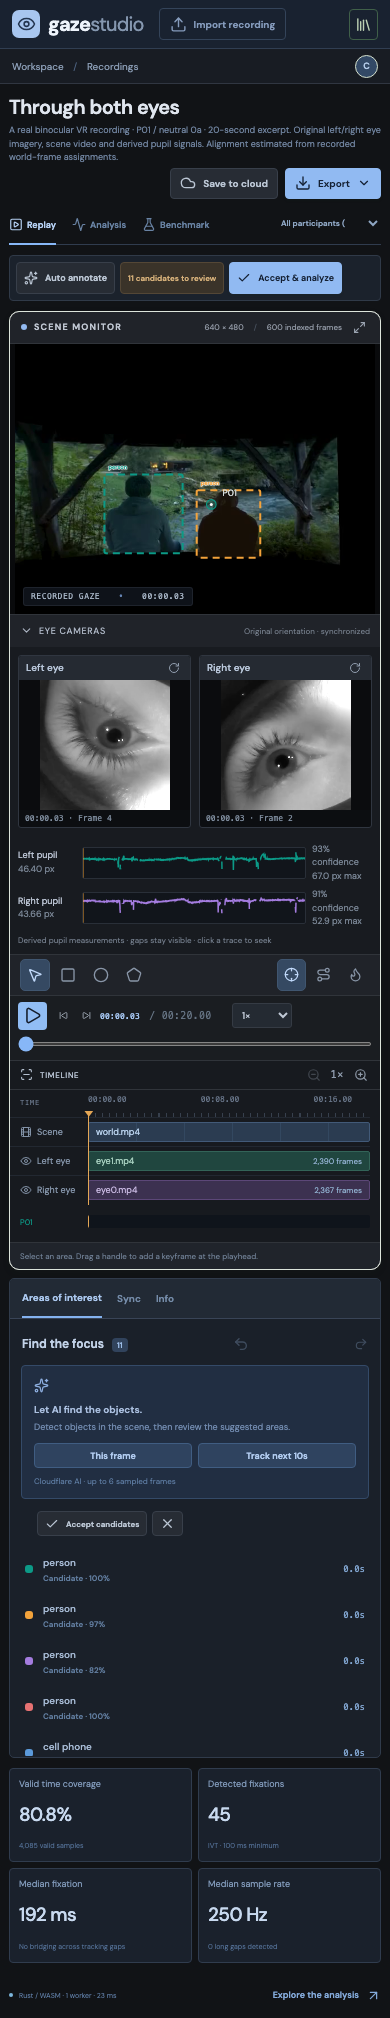
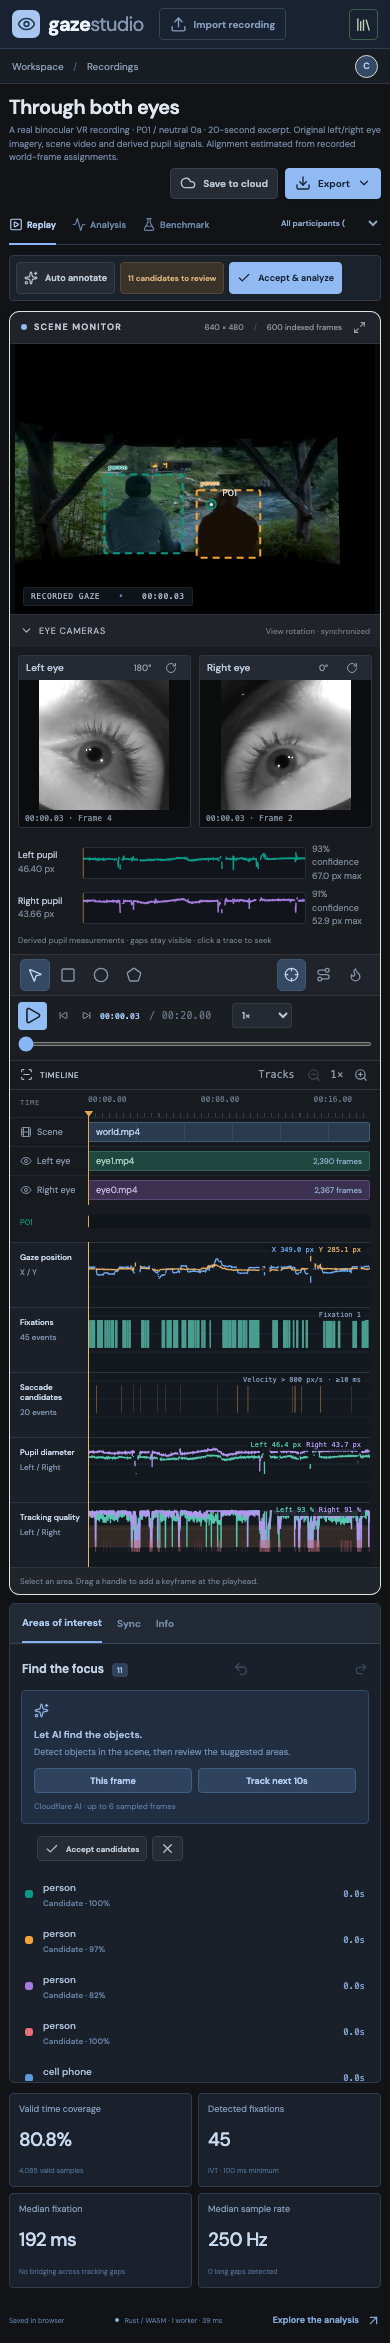
Publish signal track deployment evidence and corrected-eye screenshots

diff --git a/docs/EDITOR-VERIFICATION.md b/docs/EDITOR-VERIFICATION.md
@@ -35,3 +35,9 @@ See `docs/verification/` for preserved reports and `artifacts/verification/` for
 A subsequent CSS adjustment reduces ruler labels in narrow reusable players. [Production measurements](verification/v0.2-compact-timeline.json) checked non-overlap at 390px for 1×, 2×, 4× and 8× zoom. The full editor checks also passed again after this adjustment.
 
 [Final deployment CI](https://github.com/pajama-studio/gaze-studio/actions/runs/34072025822) passed for `1ed80ec407686377dd0158d518bd5cf1cb93371d`, including all 32 browser flows and the native/WASM/API checks above.
+
+## Signal tracks update
+
+The subsequent signal-track revision removes the synthetic product example and defaults the Emotion left-eye view to a reversible 180° correction. It adds five reusable data tracks, Rust saccade candidates, event inspection/CSV exports, and explicit browser-save feedback. Current validation is **74 TypeScript/WASM tests, 5 native Rust tests, and 8 additional signal-track browser workflows** (40 browser flows in the full suite). Details are in [SIGNAL-TRACKS.md](SIGNAL-TRACKS.md). Earlier reports and performance figures above describe their original source revisions.
+
+[Signal-track CI](https://github.com/pajama-studio/gaze-studio/actions/runs/34074121738) passed for source `a32ea1bb7f252699137b56976a07456b1a7c7d66`. The public domain separately passed [eight signal workflows](verification/v0.2.1-signals.json), [seven binocular workflows](verification/v0.2.1-binocular.json) and [both real three-video cloud round trips](verification/v0.2.1-raw-cloud.json). [Deployment metadata](verification/v0.2.1-deployment.json) identifies the exact Cloudflare version.

diff --git a/docs/SIGNAL-TRACKS.md b/docs/SIGNAL-TRACKS.md
@@ -33,3 +33,5 @@ This is new code using the existing modular Rust pipeline. The previous private 
 `BASE_URL=… npm run test:signals` covers eight browser workflows: real-only examples, corrected/raw orientation, five live tracks and keyboard seek, event details, track visibility and ruler alignment, event CSV/replay, persisted rotation, mobile bounds, and saved/empty workspaces when public example metadata is unavailable (several checks are grouped).
 
 Static plot geometry is memoized. Buckets retain endpoints and extrema while explicit invalid samples and long gaps remain path breaks. Playback updates only cursors, sample readouts and accessible values. There is no per-frame full-sample processing. This remains an interactive trial viewer rather than a streaming million-sample engine.
+
+A same-host Chromium check with 4× CPU throttling and five seconds of playback compared the preceding editor with the five-track working build: main-thread script work was 312.9 ms vs 375.6 ms, task time 1,204.2 ms vs 1,400.0 ms, and rAF P95 19.9 ms vs 20.2 ms. Neither run observed a task over 50 ms. The new tracks add work; this single pair does not establish equal performance on every device. [Recorded measurement](verification/v0.2.1-performance.json).
